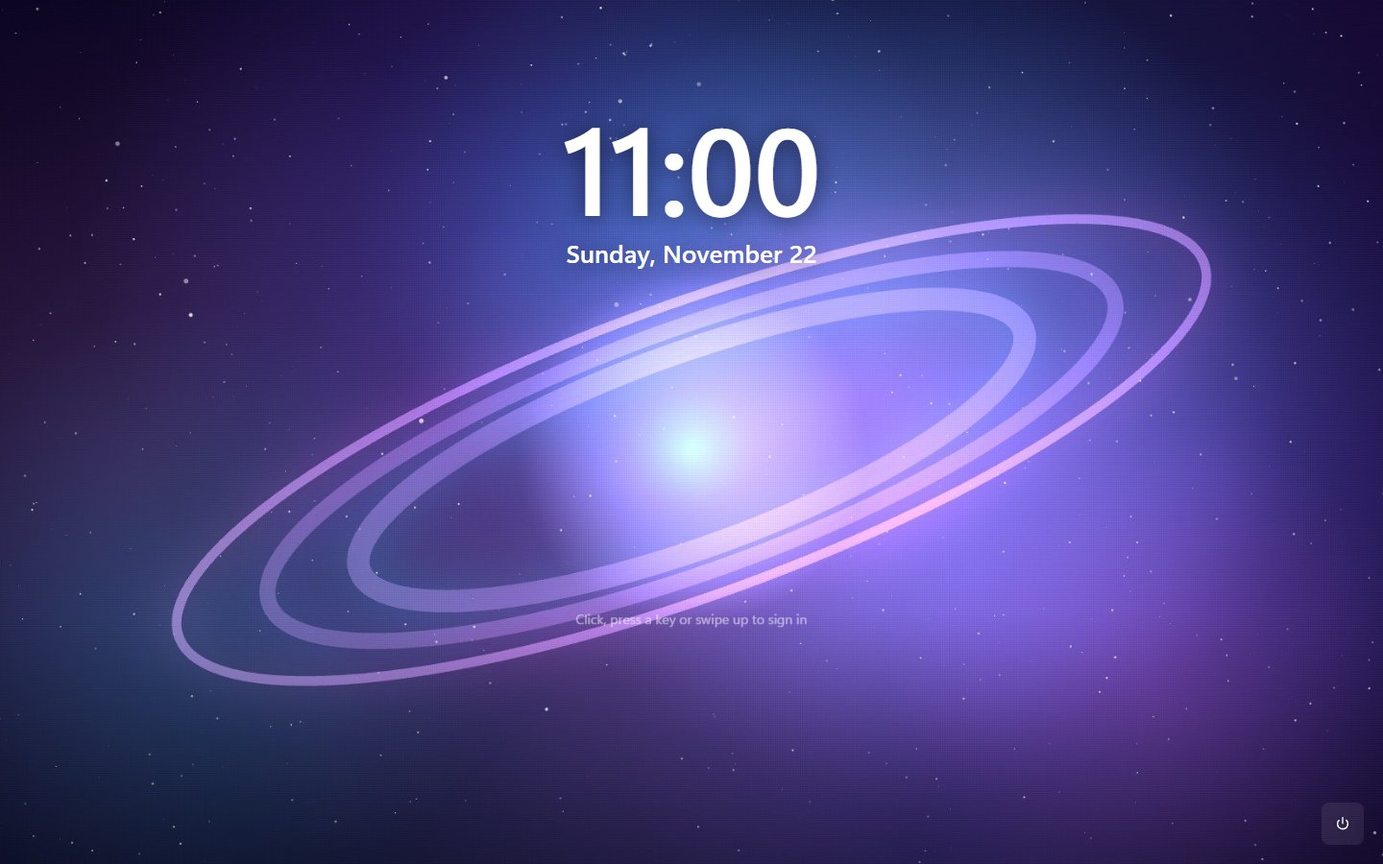
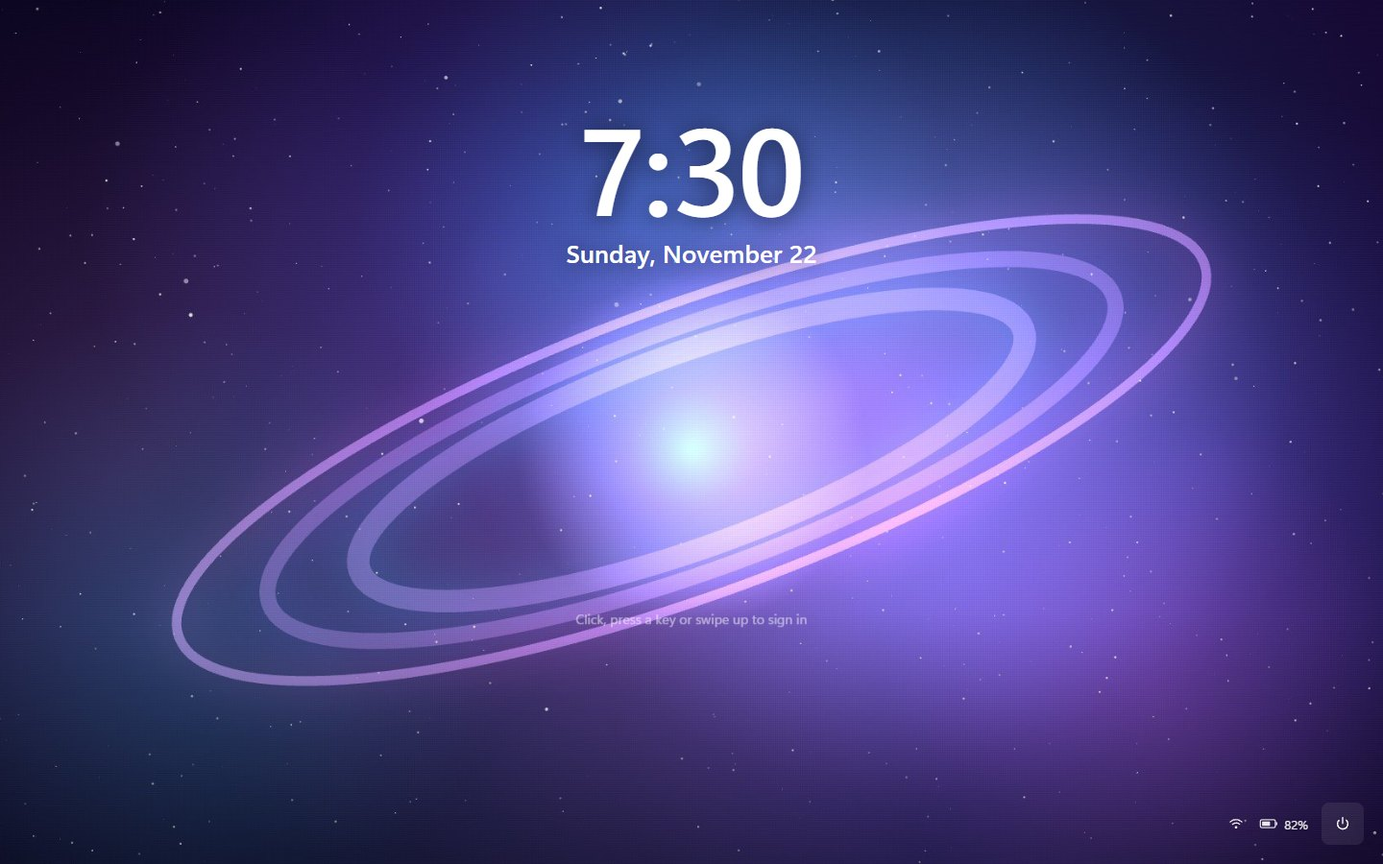
Nebulux OS 3.2 version and What's new; website: New in 3.2 section with screenshots, 3.2 features, Wi-Fi help, comparison with Windows 11

Changed region(s): [[0.4062, 0.1244, 0.5938, 0.28], [0.9062, 0.9333, 0.9375, 0.9644]]

diff --git a/site/public/features.html b/site/public/features.html
@@ -50,13 +50,23 @@
     <div class="card rise"><div class="ic"><svg viewBox="0 0 24 24" width="22" height="22" fill="none" stroke="currentColor" stroke-width="1.8" stroke-linecap="round" stroke-linejoin="round" aria-hidden="true"><rect x="3" y="4" width="18" height="16" rx="2"/><path d="M3 9h18"/><path d="M15 6.5h.01M18 6.5h.01"/></svg></div><h4>Task Manager</h4><p>See what's running and close anything that's stuck.</p></div>
   </div>
 
+  <div class="head rise" style="text-align:left;margin:0 0 26px"><h2 style="font-size:34px">Getting things done</h2></div>
+  <div class="grid" style="margin-bottom:70px">
+    <div class="card rise"><div class="ic"><svg viewBox="0 0 24 24" width="22" height="22" fill="none" stroke="currentColor" stroke-width="1.8" stroke-linecap="round" stroke-linejoin="round" aria-hidden="true"><rect x="3" y="4" width="18" height="16" rx="2"/><path d="M3 9h18"/><path d="M15 6.5h.01M18 6.5h.01"/></svg></div><h4>Virtual desktops</h4><p>Separate desktops for school, work and games. Add, rename and drag windows between them in Task View.</p></div>
+    <div class="card rise"><div class="ic"><svg viewBox="0 0 24 24" width="22" height="22" fill="none" stroke="currentColor" stroke-width="1.8" stroke-linecap="round" stroke-linejoin="round" aria-hidden="true"><rect x="3" y="3" width="7" height="7" rx="2"/><rect x="14" y="3" width="7" height="7" rx="2"/><rect x="3" y="14" width="7" height="7" rx="2"/><rect x="14" y="14" width="7" height="7" rx="2"/></svg></div><h4>Clipboard history</h4><p>Nebulux + V: the last 25 things you copied, from any app. Pin the ones you use often.</p></div>
+    <div class="card rise"><div class="ic"><svg viewBox="0 0 24 24" width="22" height="22" fill="none" stroke="currentColor" stroke-width="1.8" stroke-linecap="round" stroke-linejoin="round" aria-hidden="true"><path d="M3 6a2 2 0 0 1 2-2h4l2 3h8a2 2 0 0 1 2 2v9a2 2 0 0 1-2 2H5a2 2 0 0 1-2-2z"/></svg></div><h4>Tabs in File Explorer</h4><p>Several folders in one window. Ctrl + T, Ctrl + W and Ctrl + Tab.</p></div>
+    <div class="card rise"><div class="ic"><svg viewBox="0 0 24 24" width="22" height="22" fill="none" stroke="currentColor" stroke-width="1.8" stroke-linecap="round" stroke-linejoin="round" aria-hidden="true"><path d="M9 3h6l-1 6 4 4H6l4-4z"/><path d="M12 13v8"/></svg></div><h4>Sticky Notes</h4><p>Colored notes that save as you type, with search and Undo.</p></div>
+    <div class="card rise"><div class="ic"><svg viewBox="0 0 24 24" width="22" height="22" fill="none" stroke="currentColor" stroke-width="1.8" stroke-linecap="round" stroke-linejoin="round" aria-hidden="true"><path d="M12 2l2.4 7.6L22 12l-7.6 2.4L12 22l-2.4-7.6L2 12l7.6-2.4z"/></svg></div><h4>Focus sessions</h4><p>Do not disturb for 15 to 60 minutes from the Clock app.</p></div>
+    <div class="card rise"><div class="ic"><svg viewBox="0 0 24 24" width="22" height="22" fill="none" stroke="currentColor" stroke-width="1.8" stroke-linecap="round" stroke-linejoin="round" aria-hidden="true"><circle cx="12" cy="12" r="10"/><path d="M10 8l6 4-6 4z" fill="currentColor"/></svg></div><h4>Get Started</h4><p>A quick tour with every shortcut, for anyone new to Nebulux OS.</p></div>
+  </div>
+
   <div class="head rise" style="text-align:left;margin:0 0 26px"><h2 style="font-size:34px">Your computer</h2></div>
   <div class="grid" style="margin-bottom:70px">
-    <div class="card rise"><div class="ic"><svg viewBox="0 0 24 24" width="22" height="22" fill="none" stroke="currentColor" stroke-width="1.8" stroke-linecap="round" stroke-linejoin="round" aria-hidden="true"><path d="M2 8.5a15 15 0 0 1 20 0"/><path d="M5 12a10 10 0 0 1 14 0"/><path d="M8.5 15.5a5 5 0 0 1 7 0"/><circle cx="12" cy="19" r="1.2" fill="currentColor"/></svg></div><h4>Wi-Fi</h4><p>See networks near you, connect with a password, and disconnect. A network cable works on its own.</p></div>
+    <div class="card rise"><div class="ic"><svg viewBox="0 0 24 24" width="22" height="22" fill="none" stroke="currentColor" stroke-width="1.8" stroke-linecap="round" stroke-linejoin="round" aria-hidden="true"><path d="M2 8.5a15 15 0 0 1 20 0"/><path d="M5 12a10 10 0 0 1 14 0"/><path d="M8.5 15.5a5 5 0 0 1 7 0"/><circle cx="12" cy="19" r="1.2" fill="currentColor"/></svg></div><h4>Wi-Fi</h4><p>Drivers for the newest Wi-Fi 6 and 6E chips. Connect, forget saved networks, join hidden ones, and a troubleshooter that fixes problems for you.</p></div>
     <div class="card rise"><div class="ic"><svg viewBox="0 0 24 24" width="22" height="22" fill="none" stroke="currentColor" stroke-width="1.8" stroke-linecap="round" stroke-linejoin="round" aria-hidden="true"><path d="M7 7l10 10-5 5V2l5 5L7 17"/></svg></div><h4>Bluetooth</h4><p>Add headphones, mice and keyboards, pair them, and remove them, from Settings or quick settings.</p></div>
     <div class="card rise"><div class="ic"><svg viewBox="0 0 24 24" width="22" height="22" fill="none" stroke="currentColor" stroke-width="1.8" stroke-linecap="round" stroke-linejoin="round" aria-hidden="true"><rect x="2" y="4" width="20" height="13" rx="2"/><path d="M8 21h8"/><path d="M12 17v4"/></svg></div><h4>Screens and sound</h4><p>A TV or monitor on HDMI: duplicate, second screen only, or this screen only. Pick which speakers play sound, or cast to a wireless TV.</p></div>
     <div class="card rise"><div class="ic"><svg viewBox="0 0 24 24" width="22" height="22" fill="none" stroke="currentColor" stroke-width="1.8" stroke-linecap="round" stroke-linejoin="round" aria-hidden="true"><rect x="2" y="7" width="17" height="10" rx="2.5"/><path d="M22 11v2"/><path d="M5 10h7v4H5z" fill="currentColor"/></svg></div><h4>Battery and Battery saver</h4><p>A battery bar that goes down with the charge and changes color, and Battery saver that turns it yellow and makes the battery last.</p></div>
-    <div class="card rise"><div class="ic"><svg viewBox="0 0 24 24" width="22" height="22" fill="none" stroke="currentColor" stroke-width="1.8" stroke-linecap="round" stroke-linejoin="round" aria-hidden="true"><rect x="6" y="2" width="12" height="20" rx="6"/><path d="M12 6v4"/></svg></div><h4>Mouse and keyboard</h4><p>Pointer speed from Slower to Faster, and your keyboard layout from first-time setup.</p></div>
+    <div class="card rise"><div class="ic"><svg viewBox="0 0 24 24" width="22" height="22" fill="none" stroke="currentColor" stroke-width="1.8" stroke-linecap="round" stroke-linejoin="round" aria-hidden="true"><rect x="6" y="2" width="12" height="20" rx="6"/><path d="M12 6v4"/></svg></div><h4>Mouse, night light and storage</h4><p>Pointer speed from Slower to Faster, night light on a schedule, and how much space is left on your USB.</p></div>
     <div class="card rise"><div class="ic"><svg viewBox="0 0 24 24" width="22" height="22" fill="none" stroke="currentColor" stroke-width="1.8" stroke-linecap="round" stroke-linejoin="round" aria-hidden="true"><path d="M20 11a8 8 0 0 0-14.6-4.5L3 9"/><path d="M3 3v6h6"/><path d="M4 13a8 8 0 0 0 14.6 4.5L21 15"/><path d="M21 21v-6h-6"/></svg></div><h4>Updates</h4><p>Nebulux OS finds its own updates and asks: Later, Remind me or Never. Each one is checked before it's used.</p></div>
   </div>
 

diff --git a/site/public/index.html b/site/public/index.html
@@ -25,11 +25,11 @@
 <main>
 <section class="hero" style="padding-bottom:0">
   <div class="wrap">
-    <a class="pill rise" href="/whats-new"><b>New</b>Nebulux OS 3.1 updates itself, and more</a>
+    <a class="pill rise" href="/whats-new"><b>New</b>Nebulux OS 3.2: virtual desktops, clipboard history and more</a>
     <h1 class="rise">Nebulux OS</h1>
     <p class="lead rise">A whole computer on a USB stick. Plug it in, start up, and you're on a fast, beautiful desktop you already know how to use. Your computer's own drive is never touched.</p>
     <div class="cta rise">
-      <a class="btn primary big" href="/download"><svg viewBox="0 0 24 24" width="22" height="22" fill="none" stroke="currentColor" stroke-width="1.8" stroke-linecap="round" stroke-linejoin="round" aria-hidden="true"><path d="M12 3v12"/><path d="M7 10l5 5 5-5"/><path d="M5 21h14"/></svg>Download Nebulux OS 3.1</a>
+      <a class="btn primary big" href="/download"><svg viewBox="0 0 24 24" width="22" height="22" fill="none" stroke="currentColor" stroke-width="1.8" stroke-linecap="round" stroke-linejoin="round" aria-hidden="true"><path d="M12 3v12"/><path d="M7 10l5 5 5-5"/><path d="M5 21h14"/></svg>Download Nebulux OS 3.2</a>
       <a class="btn big" href="/try/" target="_blank" rel="noopener"><svg viewBox="0 0 24 24" width="22" height="22" fill="none" stroke="currentColor" stroke-width="1.8" stroke-linecap="round" stroke-linejoin="round" aria-hidden="true"><circle cx="12" cy="12" r="10"/><path d="M10 8l6 4-6 4z" fill="currentColor"/></svg>Try it in your browser</a>
     </div>
     <small class="meta rise">Free. For PCs from about 2010 on. About 1.3 GB.</small>
@@ -47,6 +47,23 @@
     <div class="fact rise"><b>Free</b><span>no license to buy, no subscription, no ads</span></div>
   </div>
 </div>
+
+<section id="new" style="padding-bottom:0">
+  <div class="wrap">
+    <div class="head rise"><span class="kicker">New in 3.2</span><h2>More room to work</h2><p>Desktops for every part of your day, everything you copied a key away, notes that stick, and tabs in File Explorer.</p></div>
+    <div class="n32">
+      <div class="n32c rise"><div class="pic"><img src="/shots/desks.jpg" alt="Task View with three desktops: Desktop 1, School and Games" loading="lazy" width="1440" height="900"></div><h3>Virtual desktops</h3><p>One desktop for school, one for games. Add, rename and drag windows between them in Task View. Ctrl + Nebulux + Left or Right switches.</p></div>
+      <div class="n32c rise"><div class="pic"><img src="/shots/clip.jpg" alt="Clipboard history with four copied items" loading="lazy" width="1440" height="900"></div><h3>Clipboard history</h3><p>Nebulux + V shows the last 25 things you copied, from any app. Click one to paste it, pin the ones you use a lot.</p></div>
+      <div class="n32c rise"><div class="pic"><img src="/shots/notes.jpg" alt="Sticky Notes with five colored notes" loading="lazy" width="1440" height="900"></div><h3>Sticky Notes</h3><p>Colored notes that save as you type, with search and Undo. They show up in Widgets too.</p></div>
+      <div class="n32c rise"><div class="pic"><img src="/shots/tabs.jpg" alt="File Explorer with two tabs" loading="lazy" width="1440" height="900"></div><h3>Tabs in File Explorer</h3><p>Ctrl + T for a new tab, Ctrl + W to close it, or middle-click a folder to open it in its own tab.</p></div>
+    </div>
+    <div class="grid" style="margin-top:16px">
+      <div class="card rise"><div class="ic"><svg viewBox="0 0 24 24" width="22" height="22" fill="none" stroke="currentColor" stroke-width="1.8" stroke-linecap="round" stroke-linejoin="round" aria-hidden="true"><path d="M2 8.5a15 15 0 0 1 20 0"/><path d="M5 12a10 10 0 0 1 14 0"/><path d="M8.5 15.5a5 5 0 0 1 7 0"/><circle cx="12" cy="19" r="1.2" fill="currentColor"/></svg></div><h4>Wi-Fi that works</h4><p>Linux 6.12 with drivers for the newest Wi-Fi 6 and 6E chips, a troubleshooter that fixes problems for you, and hidden and saved networks.</p></div>
+      <div class="card rise"><div class="ic"><svg viewBox="0 0 24 24" width="22" height="22" fill="none" stroke="currentColor" stroke-width="1.8" stroke-linecap="round" stroke-linejoin="round" aria-hidden="true"><path d="M12 2l2.4 7.6L22 12l-7.6 2.4L12 22l-2.4-7.6L2 12l7.6-2.4z"/></svg></div><h4>Focus sessions</h4><p>15 to 60 minutes of Do not disturb from the Clock app, with a heads-up when it's done.</p></div>
+      <div class="card rise"><div class="ic"><svg viewBox="0 0 24 24" width="22" height="22" fill="none" stroke="currentColor" stroke-width="1.8" stroke-linecap="round" stroke-linejoin="round" aria-hidden="true"><path d="M3 6a2 2 0 0 1 2-2h4l2 3h8a2 2 0 0 1 2 2v9a2 2 0 0 1-2 2H5a2 2 0 0 1-2-2z"/></svg></div><h4>Storage, night light and more</h4><p>See what fills your USB, put night light on a schedule, and take the tour in Get Started.</p></div>
+    </div>
+  </div>
+</section>
 
 <section id="compare" style="padding-bottom:0">
   <div class="wrap">
@@ -153,7 +170,7 @@
   <div class="wrap">
     <div class="head rise"><span class="kicker">Get it</span><h2>Ready in three steps</h2><p>You need a USB stick of 4 GB or more, and about ten minutes.</p></div>
     <div class="steps">
-      <div class="step rise"><h4>Download</h4><p>Get the Nebulux OS 3.1 file (Nebulux-OS-3.1.iso, about 1.3 GB).</p></div>
+      <div class="step rise"><h4>Download</h4><p>Get the Nebulux OS 3.2 file (Nebulux-OS-3.2.iso, about 1.3 GB).</p></div>
       <div class="step rise"><h4>Put it on a USB</h4><p>Write it to your USB with Rufus, a free tool. Add a persistent partition so Nebulux OS remembers your things.</p></div>
       <div class="step rise"><h4>Start from the USB</h4><p>Restart your computer, tap the boot menu key, and pick the USB. Setup takes a minute.</p></div>
     </div>
@@ -180,7 +197,7 @@
     <div class="final rise">
       <img class="logo" src="/img/nebulux-256.png" alt="">
       <h2>Start something new</h2>
-      <p>Nebulux OS 3.1 is ready. Put it on a USB and give any computer a fresh start.</p>
+      <p>Nebulux OS 3.2 is ready. Put it on a USB and give any computer a fresh start.</p>
       <div class="cta"><a class="btn primary big" href="/download"><svg viewBox="0 0 24 24" width="22" height="22" fill="none" stroke="currentColor" stroke-width="1.8" stroke-linecap="round" stroke-linejoin="round" aria-hidden="true"><path d="M12 3v12"/><path d="M7 10l5 5 5-5"/><path d="M5 21h14"/></svg>Download Nebulux OS</a><a class="btn big" href="/try/" target="_blank" rel="noopener">Try it in your browser</a></div>
     </div>
   </div>

diff --git a/site/public/whats-new.html b/site/public/whats-new.html
@@ -25,10 +25,23 @@
 <main>
 <div class="page"><div class="wrap">
   <span class="kicker">What's new</span>
-  <h1>New in Nebulux OS 3.1</h1>
+  <h1>New in Nebulux OS 3.2</h1>
   <p class="lead">The same list Nebulux OS shows you after it updates. Already on Nebulux OS? It updates itself: you'll get this version without downloading anything.</p>
-  <div class="ver"><b>3.1</b><span>Latest version</span></div>
+  <div class="ver"><b>3.2</b><span>Latest version</span></div>
   <div class="wn">
+<div class="card rise"><h4>Wi-Fi on newer laptops</h4><p>Nebulux OS now runs on the newer Linux kernel 6.12, with drivers for Wi-Fi 6 and 6E chips that had none before: Realtek RTL8852BE, RTL8852AE, RTL8852CE and RTL8922AE (in many Lenovo, HP and ASUS laptops), MediaTek MT7921 and MT7922, and the newest Intel chips. Their Bluetooth works too.</p></div>
+<div class="card rise"><h4>Wi-Fi that stays connected</h4><p>Wi-Fi power saving and changing addresses are off, which kept Realtek and MediaTek chips dropping the connection. Lenovo IdeaPads whose Wi-Fi said it was switched off are fixed by themselves.</p></div>
+<div class="card rise"><h4>Network troubleshooter</h4><p>Settings &gt; Network &amp; internet &gt; Troubleshoot checks the Wi-Fi chip, its driver, the Wi-Fi switch, the connection and the internet, says what is wrong in plain words, and Try to fix restarts the Wi-Fi driver and the network for you. It can also save a report to Documents.</p></div>
+<div class="card rise"><h4>Known and hidden networks</h4><p>Forget a saved network that keeps failing, join a hidden network by its name, and press Show to see the password while you type it.</p></div>
+<div class="card rise"><h4>Virtual desktops</h4><p>Task View (Nebulux + Tab) has your desktops at the bottom: add one, rename it, drag windows between them. Ctrl + Nebulux + Left or Right switches, Ctrl + Nebulux + D adds one, Ctrl + Nebulux + F4 closes it.</p></div>
+<div class="card rise"><h4>Clipboard history</h4><p>Nebulux + V shows the last 25 things you copied, in Nebulux OS and in real apps. Click one to paste it, pin the ones you need often. Turn it off in Settings &gt; System.</p></div>
+<div class="card rise"><h4>File Explorer tabs</h4><p>Ctrl + T opens a tab, Ctrl + W closes it, and a middle-click or Open in new tab opens a folder in its own tab.</p></div>
+<div class="card rise"><h4>Sticky Notes</h4><p>Quick colored notes that save as you type, with search and Undo. Your notes show in Widgets too.</p></div>
+<div class="card rise"><h4>Focus sessions</h4><p>Clock &gt; Focus: 15 to 60 minutes with Do not disturb on until it is done, even with Clock closed.</p></div>
+<div class="card rise"><h4>Night light on a schedule</h4><p>Settings &gt; System: night light comes on and goes off by itself at the hours you pick.</p></div>
+<div class="card rise"><h4>Storage</h4><p>Settings &gt; System &gt; Storage shows how much space is left on your USB, what uses it, and empties the Recycle Bin.</p></div>
+<div class="card rise"><h4>Get Started</h4><p>A quick tour of Nebulux OS with every shortcut. Open it from Start.</p></div>
+<div class="card rise"><h4>A smarter lock screen and Widgets</h4><p>The lock screen shows Wi-Fi and the battery. Widgets show your Sticky Notes and the battery.</p></div>
 <div class="card rise"><h4>Updates by themselves</h4><p>Nebulux OS now finds its own updates. Install them tonight (Later), get a reminder in 30 minutes, or skip one (Never) and install it any time from Settings &gt; Nebulux Update.</p></div>
 <div class="card rise"><h4>Real apps in the Nebulux Store</h4><p>Steam, Minecraft, Spotify, Discord, Zoom, Slack, Telegram, VLC, OBS Studio, GIMP, Krita, Blender, LibreOffice, Firefox, Google Chrome, Visual Studio Code, Signal and Audacity install as real apps. Netflix, WhatsApp, Office and about 60 more open as web apps in their own windows.</p></div>
 <div class="card rise"><h4>Window buttons for every app</h4><p>Real apps and app windows have minimize, maximize and close. Minimized apps come back from the taskbar.</p></div>
@@ -44,7 +57,7 @@
 <div class="card rise"><h4>Shortcuts with the Nebulux key</h4><p>Nebulux opens Start; Nebulux + Tab, D, E, L, W and the arrow keys do the rest, even over websites. Alt + Tab switches windows.</p></div>
 <div class="card rise"><h4>First-time setup</h4><p>Make your account, then pick your region, keyboard, Wi-Fi, privacy and look, and sign in with Google.</p></div>
   </div>
-  <div class="cta" style="justify-content:flex-start;margin-top:40px"><a class="btn primary big" href="/download"><svg viewBox="0 0 24 24" width="22" height="22" fill="none" stroke="currentColor" stroke-width="1.8" stroke-linecap="round" stroke-linejoin="round" aria-hidden="true"><path d="M12 3v12"/><path d="M7 10l5 5 5-5"/><path d="M5 21h14"/></svg>Download 3.1</a><a class="btn big" href="/try/" target="_blank" rel="noopener">Try it in your browser</a></div>
+  <div class="cta" style="justify-content:flex-start;margin-top:40px"><a class="btn primary big" href="/download"><svg viewBox="0 0 24 24" width="22" height="22" fill="none" stroke="currentColor" stroke-width="1.8" stroke-linecap="round" stroke-linejoin="round" aria-hidden="true"><path d="M12 3v12"/><path d="M7 10l5 5 5-5"/><path d="M5 21h14"/></svg>Download 3.2</a><a class="btn big" href="/try/" target="_blank" rel="noopener">Try it in your browser</a></div>
 </div></div>
 
 </main>

diff --git a/js/whatsnew.js b/js/whatsnew.js
@@ -1,10 +1,21 @@
 // The Nebulux OS version, and what's new in it (shown once after an update, the first time someone signs in).
 "use strict";
 (function () {
-  NX.version = "3.1.1";
+  NX.version = "3.2";
   NX.whatsNew = [
     ["Wi-Fi on newer laptops", "Nebulux OS now runs on the newer Linux kernel 6.12, with drivers for Wi-Fi 6 and 6E chips that had none before: Realtek RTL8852BE, RTL8852AE, RTL8852CE and RTL8922AE (in many Lenovo, HP and ASUS laptops), MediaTek MT7921 and MT7922, and the newest Intel chips. Their Bluetooth works too."],
-    ["Network troubleshooter", "Settings > Network & internet > Troubleshoot checks the Wi-Fi chip, its driver, the Wi-Fi switch, the connection and the internet, says what is wrong in plain words, tries to fix it, and can save a report to Documents."],
+    ["Wi-Fi that stays connected", "Wi-Fi power saving and changing addresses are off, which kept Realtek and MediaTek chips dropping the connection. Lenovo IdeaPads whose Wi-Fi said it was switched off are fixed by themselves."],
+    ["Network troubleshooter", "Settings > Network & internet > Troubleshoot checks the Wi-Fi chip, its driver, the Wi-Fi switch, the connection and the internet, says what is wrong in plain words, and Try to fix restarts the Wi-Fi driver and the network for you. It can also save a report to Documents."],
+    ["Known and hidden networks", "Forget a saved network that keeps failing, join a hidden network by its name, and press Show to see the password while you type it."],
+    ["Virtual desktops", "Task View (Nebulux + Tab) has your desktops at the bottom: add one, rename it, drag windows between them. Ctrl + Nebulux + Left or Right switches, Ctrl + Nebulux + D adds one, Ctrl + Nebulux + F4 closes it."],
+    ["Clipboard history", "Nebulux + V shows the last 25 things you copied, in Nebulux OS and in real apps. Click one to paste it, pin the ones you need often. Turn it off in Settings > System."],
+    ["File Explorer tabs", "Ctrl + T opens a tab, Ctrl + W closes it, and a middle-click or Open in new tab opens a folder in its own tab."],
+    ["Sticky Notes", "Quick colored notes that save as you type, with search and Undo. Your notes show in Widgets too."],
+    ["Focus sessions", "Clock > Focus: 15 to 60 minutes with Do not disturb on until it is done, even with Clock closed."],
+    ["Night light on a schedule", "Settings > System: night light comes on and goes off by itself at the hours you pick."],
+    ["Storage", "Settings > System > Storage shows how much space is left on your USB, what uses it, and empties the Recycle Bin."],
+    ["Get Started", "A quick tour of Nebulux OS with every shortcut. Open it from Start."],
+    ["A smarter lock screen and Widgets", "The lock screen shows Wi-Fi and the battery. Widgets show your Sticky Notes and the battery."],
     ["Updates by themselves", "Nebulux OS now finds its own updates. Install them tonight (Later), get a reminder in 30 minutes, or skip one (Never) and install it any time from Settings > Nebulux Update."],
     ["Real apps in the Nebulux Store", "Steam, Minecraft, Spotify, Discord, Zoom, Slack, Telegram, VLC, OBS Studio, GIMP, Krita, Blender, LibreOffice, Firefox, Google Chrome, Visual Studio Code, Signal and Audacity install as real apps. Netflix, WhatsApp, Office and about 60 more open as web apps in their own windows."],
     ["Window buttons for every app", "Real apps and app windows have minimize, maximize and close. Minimized apps come back from the taskbar."],

diff --git a/site/pages/index.html b/site/pages/index.html
@@ -1,7 +1,7 @@
 <!-- title: Nebulux OS: a whole computer on a USB stick | Nebulux OS is a complete, free operating system that starts from a USB stick. A desktop you already know, real apps, Wi-Fi and Bluetooth, and it updates itself. -->
 <section class="hero" style="padding-bottom:0">
   <div class="wrap">
-    <a class="pill rise" href="/whats-new"><b>New</b>Nebulux OS {{version}} updates itself, and more</a>
+    <a class="pill rise" href="/whats-new"><b>New</b>Nebulux OS {{version}}: virtual desktops, clipboard history and more</a>
     <h1 class="rise">Nebulux OS</h1>
     <p class="lead rise">A whole computer on a USB stick. Plug it in, start up, and you're on a fast, beautiful desktop you already know how to use. Your computer's own drive is never touched.</p>
     <div class="cta rise">
@@ -23,6 +23,23 @@
     <div class="fact rise"><b>Free</b><span>no license to buy, no subscription, no ads</span></div>
   </div>
 </div>
+
+<section id="new" style="padding-bottom:0">
+  <div class="wrap">
+    <div class="head rise"><span class="kicker">New in {{version}}</span><h2>More room to work</h2><p>Desktops for every part of your day, everything you copied a key away, notes that stick, and tabs in File Explorer.</p></div>
+    <div class="n32">
+      <div class="n32c rise"><div class="pic"><img src="/shots/desks.jpg" alt="Task View with three desktops: Desktop 1, School and Games" loading="lazy" width="1440" height="900"></div><h3>Virtual desktops</h3><p>One desktop for school, one for games. Add, rename and drag windows between them in Task View. Ctrl + Nebulux + Left or Right switches.</p></div>
+      <div class="n32c rise"><div class="pic"><img src="/shots/clip.jpg" alt="Clipboard history with four copied items" loading="lazy" width="1440" height="900"></div><h3>Clipboard history</h3><p>Nebulux + V shows the last 25 things you copied, from any app. Click one to paste it, pin the ones you use a lot.</p></div>
+      <div class="n32c rise"><div class="pic"><img src="/shots/notes.jpg" alt="Sticky Notes with five colored notes" loading="lazy" width="1440" height="900"></div><h3>Sticky Notes</h3><p>Colored notes that save as you type, with search and Undo. They show up in Widgets too.</p></div>
+      <div class="n32c rise"><div class="pic"><img src="/shots/tabs.jpg" alt="File Explorer with two tabs" loading="lazy" width="1440" height="900"></div><h3>Tabs in File Explorer</h3><p>Ctrl + T for a new tab, Ctrl + W to close it, or middle-click a folder to open it in its own tab.</p></div>
+    </div>
+    <div class="grid" style="margin-top:16px">
+      <div class="card rise"><div class="ic">{{icon:wifi}}</div><h4>Wi-Fi that works</h4><p>Linux 6.12 with drivers for the newest Wi-Fi 6 and 6E chips, a troubleshooter that fixes problems for you, and hidden and saved networks.</p></div>
+      <div class="card rise"><div class="ic">{{icon:spark}}</div><h4>Focus sessions</h4><p>15 to 60 minutes of Do not disturb from the Clock app, with a heads-up when it's done.</p></div>
+      <div class="card rise"><div class="ic">{{icon:folder}}</div><h4>Storage, night light and more</h4><p>See what fills your USB, put night light on a schedule, and take the tour in Get Started.</p></div>
+    </div>
+  </div>
+</section>
 
 <section id="compare" style="padding-bottom:0">
   <div class="wrap">

diff --git a/site/pages/features.html b/site/pages/features.html
@@ -26,13 +26,23 @@
     <div class="card rise"><div class="ic">{{icon:window}}</div><h4>Task Manager</h4><p>See what's running and close anything that's stuck.</p></div>
   </div>
 
+  <div class="head rise" style="text-align:left;margin:0 0 26px"><h2 style="font-size:34px">Getting things done</h2></div>
+  <div class="grid" style="margin-bottom:70px">
+    <div class="card rise"><div class="ic">{{icon:window}}</div><h4>Virtual desktops</h4><p>Separate desktops for school, work and games. Add, rename and drag windows between them in Task View.</p></div>
+    <div class="card rise"><div class="ic">{{icon:apps}}</div><h4>Clipboard history</h4><p>Nebulux + V: the last 25 things you copied, from any app. Pin the ones you use often.</p></div>
+    <div class="card rise"><div class="ic">{{icon:folder}}</div><h4>Tabs in File Explorer</h4><p>Several folders in one window. Ctrl + T, Ctrl + W and Ctrl + Tab.</p></div>
+    <div class="card rise"><div class="ic">{{icon:pin}}</div><h4>Sticky Notes</h4><p>Colored notes that save as you type, with search and Undo.</p></div>
+    <div class="card rise"><div class="ic">{{icon:spark}}</div><h4>Focus sessions</h4><p>Do not disturb for 15 to 60 minutes from the Clock app.</p></div>
+    <div class="card rise"><div class="ic">{{icon:play}}</div><h4>Get Started</h4><p>A quick tour with every shortcut, for anyone new to Nebulux OS.</p></div>
+  </div>
+
   <div class="head rise" style="text-align:left;margin:0 0 26px"><h2 style="font-size:34px">Your computer</h2></div>
   <div class="grid" style="margin-bottom:70px">
-    <div class="card rise"><div class="ic">{{icon:wifi}}</div><h4>Wi-Fi</h4><p>See networks near you, connect with a password, and disconnect. A network cable works on its own.</p></div>
+    <div class="card rise"><div class="ic">{{icon:wifi}}</div><h4>Wi-Fi</h4><p>Drivers for the newest Wi-Fi 6 and 6E chips. Connect, forget saved networks, join hidden ones, and a troubleshooter that fixes problems for you.</p></div>
     <div class="card rise"><div class="ic">{{icon:bt}}</div><h4>Bluetooth</h4><p>Add headphones, mice and keyboards, pair them, and remove them, from Settings or quick settings.</p></div>
     <div class="card rise"><div class="ic">{{icon:tv}}</div><h4>Screens and sound</h4><p>A TV or monitor on HDMI: duplicate, second screen only, or this screen only. Pick which speakers play sound, or cast to a wireless TV.</p></div>
     <div class="card rise"><div class="ic">{{icon:battery}}</div><h4>Battery and Battery saver</h4><p>A battery bar that goes down with the charge and changes color, and Battery saver that turns it yellow and makes the battery last.</p></div>
-    <div class="card rise"><div class="ic">{{icon:mouse}}</div><h4>Mouse and keyboard</h4><p>Pointer speed from Slower to Faster, and your keyboard layout from first-time setup.</p></div>
+    <div class="card rise"><div class="ic">{{icon:mouse}}</div><h4>Mouse, night light and storage</h4><p>Pointer speed from Slower to Faster, night light on a schedule, and how much space is left on your USB.</p></div>
     <div class="card rise"><div class="ic">{{icon:refresh}}</div><h4>Updates</h4><p>Nebulux OS finds its own updates and asks: Later, Remind me or Never. Each one is checked before it's used.</p></div>
   </div>
 

diff --git a/site/public/download.html b/site/public/download.html
@@ -31,8 +31,8 @@
   <div class="dl rise">
     <img src="/img/nebulux-256.png" alt="">
     <div>
-      <h2>Nebulux OS <span data-rel="version">3.1</span></h2>
-      <div class="sub"><span data-rel="file">Nebulux-OS-3.1.iso</span> &middot; <span data-rel="size">1.3 GB</span> &middot; for 64-bit PCs, UEFI and older BIOS</div>
+      <h2>Nebulux OS <span data-rel="version">3.2</span></h2>
+      <div class="sub"><span data-rel="file">Nebulux-OS-3.2.iso</span> &middot; <span data-rel="size">1.3 GB</span> &middot; for 64-bit PCs, UEFI and older BIOS</div>
       <div class="sha">SHA-256 <span class="mono" data-rel="sha">37430a103a62ce3b78e7c3ee489d149fcdb679a0a6d632e52b3df972600a7144</span></div>
     </div>
     <div style="text-align:center"><a class="btn primary big" id="dl-go" href="/download/iso"><svg viewBox="0 0 24 24" width="22" height="22" fill="none" stroke="currentColor" stroke-width="1.8" stroke-linecap="round" stroke-linejoin="round" aria-hidden="true"><path d="M12 3v12"/><path d="M7 10l5 5 5-5"/><path d="M5 21h14"/></svg>Download</a><div class="dlmsg" id="dl-msg"></div></div>
@@ -50,7 +50,7 @@
   <div class="prose" id="install">
     <h2>1. Download</h2>
     <p>Press <strong>Download</strong> above. The file is about 1.3 GB, so it can take a few minutes.</p>
-    <p>To check the download isn't damaged (optional), open PowerShell in your Downloads folder and run <code>Get-FileHash .\Nebulux-OS-3.1.iso</code>. The number should match the SHA-256 above.</p>
+    <p>To check the download isn't damaged (optional), open PowerShell in your Downloads folder and run <code>Get-FileHash .\Nebulux-OS-3.2.iso</code>. The number should match the SHA-256 above.</p>
 
     <h2>2. Put it on your USB</h2>
     <div class="note">Writing Nebulux OS to a USB erases everything on that USB. Copy your files off it first.</div>
@@ -59,7 +59,7 @@
       <li>Plug in your USB and open Rufus. Choose:
         <ul>
           <li><strong>Device:</strong> your USB stick. Check its name and size: whatever you pick is erased.</li>
-          <li><strong>Boot selection:</strong> press SELECT and pick <code>Nebulux-OS-3.1.iso</code>.</li>
+          <li><strong>Boot selection:</strong> press SELECT and pick <code>Nebulux-OS-3.2.iso</code>.</li>
           <li><strong>Persistent partition size:</strong> about <strong>4 GB or more</strong>. This makes Nebulux OS remember your accounts, settings, Wi-Fi passwords and files. At 0, it starts fresh every time and offers a Guest start.</li>
           <li><strong>Partition scheme:</strong> <strong>GPT</strong> for most computers from 2013 on, <strong>MBR</strong> for older ones.</li>
         </ul>

diff --git a/site/pages/help.html b/site/pages/help.html
@@ -16,7 +16,8 @@
   <h2 style="font-size:28px;margin:10px 0 18px">Using Nebulux OS</h2>
   <div class="faq" style="margin:0 0 50px;max-width:none">
     <details><summary>My settings are gone every time I restart</summary><p>The USB was written without a persistent partition, so nothing is saved. Write it again with Rufus and set Persistent partition size to 4 GB or more. Until then, Nebulux OS offers a quick Guest start.</p></details>
-    <details><summary>Wi-Fi doesn't show any networks</summary><p>Open Settings &gt; Network &amp; internet. If the computer's Wi-Fi switch or key turned Wi-Fi off, Nebulux OS says so and turns it back on. A few Wi-Fi chips have no free driver: Settings names the chip. A network cable always works.</p></details>
+    <details><summary>Wi-Fi doesn't work, or shows no networks</summary><p>Open Settings &gt; Network &amp; internet &gt; Troubleshoot and press Run. It checks the Wi-Fi chip, its driver, the Wi-Fi switch, the connection and the internet, and says what's wrong. Press Try to fix: it turns Wi-Fi back on, restarts its driver and the network. Still stuck? Press Save a report to Documents and send that file to us. Nebulux OS {{version}} has drivers for the newest Wi-Fi 6 and 6E chips (Realtek RTL8852BE and others, MediaTek MT7921 and MT7922, Intel AX200 and AX210). A network cable always works.</p></details>
+    <details><summary>A saved network keeps failing</summary><p>Settings &gt; Network &amp; internet &gt; Known networks: press Forget next to it, then connect again and type its password. Press Show to check the password as you type it.</p></details>
     <details><summary>A Bluetooth device won't pair</summary><p>Put the device in pairing mode (usually hold its button until a light blinks), then press Add device in Settings &gt; Bluetooth &amp; devices. Remove it and add it again if it paired before.</p></details>
     <details><summary>How do I install apps?</summary><p>Open the Nebulux Store, pick an app and press Get. Real apps like Steam, Spotify or Minecraft need internet and a USB that saves changes. Web apps open in their own windows.</p></details>
     <details><summary>How do I pin an app to the taskbar?</summary><p>Press the Nebulux key (or click the Search box), type the app's name, and press Pin to taskbar in the details on the right. Or right-click the app on the desktop.</p></details>

diff --git a/site/public/help.html b/site/public/help.html
@@ -40,7 +40,8 @@
   <h2 style="font-size:28px;margin:10px 0 18px">Using Nebulux OS</h2>
   <div class="faq" style="margin:0 0 50px;max-width:none">
     <details><summary>My settings are gone every time I restart</summary><p>The USB was written without a persistent partition, so nothing is saved. Write it again with Rufus and set Persistent partition size to 4 GB or more. Until then, Nebulux OS offers a quick Guest start.</p></details>
-    <details><summary>Wi-Fi doesn't show any networks</summary><p>Open Settings &gt; Network &amp; internet. If the computer's Wi-Fi switch or key turned Wi-Fi off, Nebulux OS says so and turns it back on. A few Wi-Fi chips have no free driver: Settings names the chip. A network cable always works.</p></details>
+    <details><summary>Wi-Fi doesn't work, or shows no networks</summary><p>Open Settings &gt; Network &amp; internet &gt; Troubleshoot and press Run. It checks the Wi-Fi chip, its driver, the Wi-Fi switch, the connection and the internet, and says what's wrong. Press Try to fix: it turns Wi-Fi back on, restarts its driver and the network. Still stuck? Press Save a report to Documents and send that file to us. Nebulux OS 3.2 has drivers for the newest Wi-Fi 6 and 6E chips (Realtek RTL8852BE and others, MediaTek MT7921 and MT7922, Intel AX200 and AX210). A network cable always works.</p></details>
+    <details><summary>A saved network keeps failing</summary><p>Settings &gt; Network &amp; internet &gt; Known networks: press Forget next to it, then connect again and type its password. Press Show to check the password as you type it.</p></details>
     <details><summary>A Bluetooth device won't pair</summary><p>Put the device in pairing mode (usually hold its button until a light blinks), then press Add device in Settings &gt; Bluetooth &amp; devices. Remove it and add it again if it paired before.</p></details>
     <details><summary>How do I install apps?</summary><p>Open the Nebulux Store, pick an app and press Get. Real apps like Steam, Spotify or Minecraft need internet and a USB that saves changes. Web apps open in their own windows.</p></details>
     <details><summary>How do I pin an app to the taskbar?</summary><p>Press the Nebulux key (or click the Search box), type the app's name, and press Pin to taskbar in the details on the right. Or right-click the app on the desktop.</p></details>

diff --git a/site/public/download-soon.html b/site/public/download-soon.html
@@ -26,7 +26,7 @@
 <div class="page" style="text-align:center;padding:110px 0 130px"><div class="wrap">
   <img src="/img/nebulux-256.png" alt="" style="width:96px;height:96px;margin:0 auto 26px;border-radius:50%;box-shadow:0 0 60px 10px rgba(168,85,247,.35)">
   <h1>The download opens soon</h1>
-  <p class="lead" style="margin:0 auto 30px">Nebulux OS 3.1 is ready, and downloads from this site are being switched on. Please try again a little later.</p>
+  <p class="lead" style="margin:0 auto 30px">Nebulux OS 3.2 is ready, and downloads from this site are being switched on. Please try again a little later.</p>
   <div class="cta"><a class="btn primary big" href="/try/" target="_blank" rel="noopener"><svg viewBox="0 0 24 24" width="22" height="22" fill="none" stroke="currentColor" stroke-width="1.8" stroke-linecap="round" stroke-linejoin="round" aria-hidden="true"><circle cx="12" cy="12" r="10"/><path d="M10 8l6 4-6 4z" fill="currentColor"/></svg>Try it in your browser meanwhile</a><a class="btn big" href="/">Home</a></div>
 </div></div>
 

diff --git a/site/public/css/site.css b/site/public/css/site.css
@@ -190,3 +190,11 @@ footer nav a:hover{color:var(--txt)}
 .vs-top .them{font-size:18px;font-weight:600;color:var(--sub)}
 .vs-note{max-width:980px;margin:16px auto 0;color:var(--dim);font-size:12.5px;text-align:center}
 @media (max-width:700px){.vs-row{grid-template-columns:1fr 1fr}.vs-row>span{grid-column:1/-1;padding-bottom:0;font-size:13px;text-transform:uppercase;letter-spacing:.08em}.vs-top>span{display:none}.vs-row>*{padding:12px 14px;font-size:14px}}
+
+/* New in 3.2 */
+.n32{display:grid;grid-template-columns:1fr 1fr;gap:22px}
+.n32c{padding:14px 14px 22px;border-radius:20px;background:var(--card);border:1px solid var(--line)}
+.n32c .pic{margin-bottom:18px;border-radius:12px}
+.n32c h3{font-size:24px;font-weight:750;margin:0 6px 8px}
+.n32c p{color:var(--sub);margin:0 6px;font-size:15.5px}
+@media (max-width:800px){.n32{grid-template-columns:1fr}}
